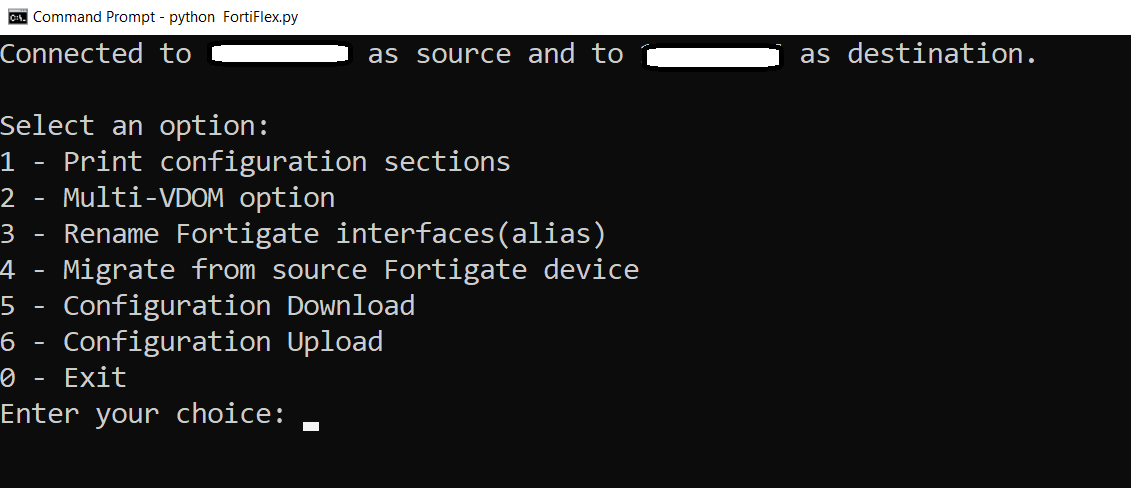
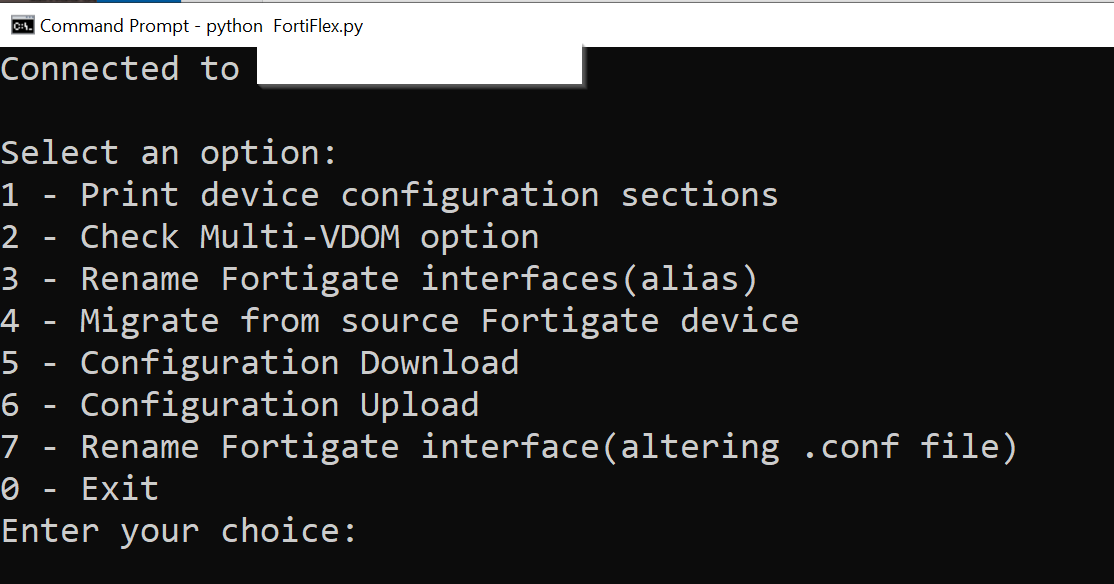
Updates

Changed region(s): [[0.0, 0.2152, 0.7325, 0.9529], [0.0, 0.0, 1.0, 0.1537], [0.7325, 0.7377, 0.9156, 0.7992]]

diff --git a/README.md b/README.md
@@ -14,7 +14,7 @@ Table of Contents
 1. Features
 	-Print Configuration Sections
 	-Multi-VDOM Management
-	-Rename FortiGate Interfaces (Alias)
+	-Rename FortiGate Interfaces
 	-Migrate Configuration from a Source Device
 	-Download Configuration
 	-Upload Configuration
@@ -34,7 +34,7 @@ FortiFlex includes the following key features:
 
 a. Print Configuration Sections: View, select,download, send and delete specific configuration from a FortiGate device. 
 b. Multi-VDOM Management: Enabling / disabling multi-vdom functionality. 
-c. Rename FortiGate Interfaces (Alias): Update interface names using aliases. 
+c. Rename FortiGate Interfaces (Alias): Update interface names using aliases or by altering the configuration file. 
 d. Migrate Configuration: Copy configurations from one FortiGate device to another, with automatic dependency checking. 
 e. Download Configuration: Save the current FortiGate configuration to a local file for backup or review. 
 f. Upload Configuration: Apply new configurations by uploading a saved configuration file to a FortiGate device.
@@ -73,7 +73,7 @@ python fortiflex.py
 
 You’ll be prompted with a menu to select specific functionalities.
 Its purpose is to connect to a fortigate device, download configuration localy to the PC as json(alter it if needed to add config) and then upload the config to the same or to another fortigate device. It can check configuration dependencies so you won't have to copy every depended object before transfering the final one.
-
+You can also use the tool for downlading / uploading configuration files, changing interface names and controlling the multi-vdom functionality of the device.
 
 5. Directory Structure
 
@@ -115,6 +115,6 @@ GitHub Issues: Please open an issue if you encounter any problems. Email: pgkerd
 
 9. Known issues
 
-- Configurations that have a VPN tunnel as dependency (example fw rule with VPN tunnel as interface) will not work. You have to create manually the VPN tunnel first.
+Not yet
 
 Validate the changes before every action. I am not responsible for misconfigurations on the fortigate devices. 
